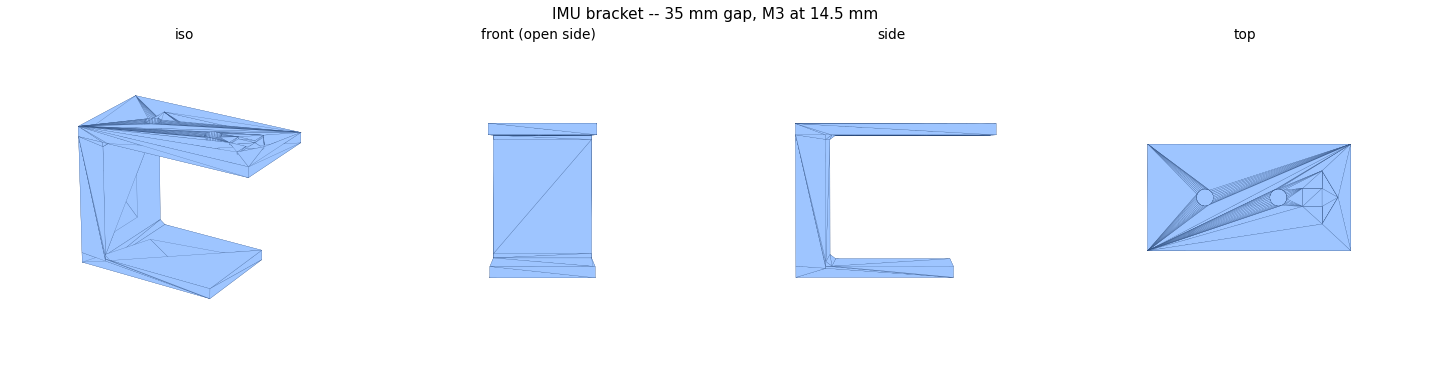
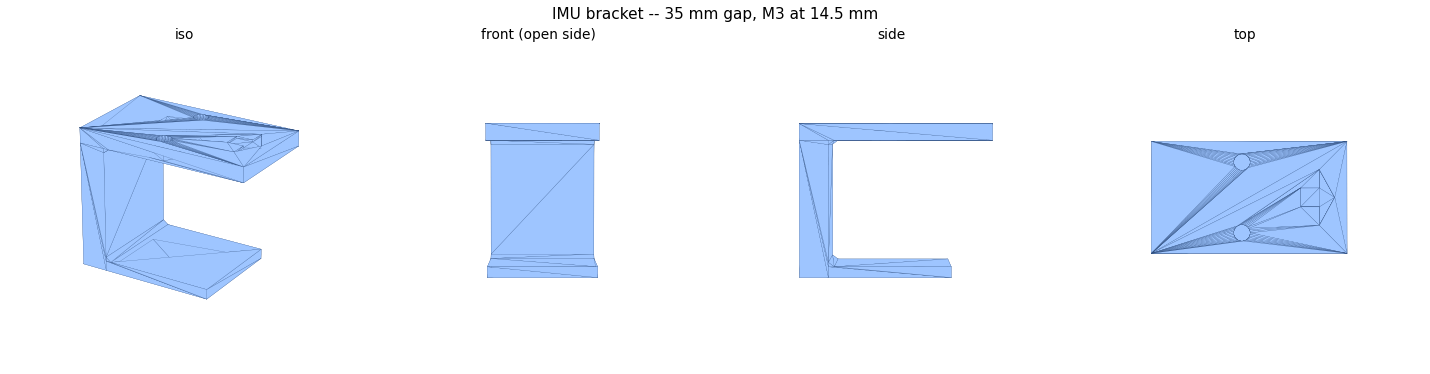
imu bracket: holes across the plate, and a nut trap that fits
Two changes.

The bolt holes rotate 90 degrees, so they now run across the plate
rather than fore and aft, and the board's long axis sits athwart the
robot. The plate widens to suit -- 22.9 mm, taken as the larger of the
board footprint and the bolt span plus clearance, rather than assuming
the board is always the wider of the two.

The nut trap was unbuildable as written. A 2.6 mm hex pocket in a 3 mm
plate leaves 0.4 mm of PLA above the nut, and that 0.4 mm is what the
bolt clamps against -- it would crush on first tightening. The top plate
now grows to 4.6 mm whenever a trap is asked for, keeping 2 mm of
material over the nut, and the summary says it did.

Caught by probing the geometry rather than reading the dimensions back:
the part was watertight and the numbers all looked reasonable, and it
would still have failed the first time a bolt was done up.

diff --git a/imu/design_imu_bracket.py b/imu/design_imu_bracket.py
@@ -93,6 +93,7 @@ MARGIN = 2.5          # plate material beyond the board footprint
 M3_CLEAR = 3.4        # clearance for an M3 bolt
 M3_NUT_AF = 6.2       # M3 nut across flats, plus a little
 M3_NUT_H = 2.6        # M3 nut thickness, plus a little
+MIN_OVER_NUT = 2.0    # material that must remain above a trapped nut
 FILLET = 1.2          # web-to-plate fillet leg, mm
 ARROW_DEPTH = 0.6     # engraving depth
 ARROW_LEN = 7.0
@@ -123,13 +124,19 @@ def arrow_prism(length, width, depth):
 
 
 def build(board_l, board_w, hole_spacing, c_height, nut_trap):
+    # A nut pocket 2.6 mm deep in a 3 mm plate leaves 0.4 mm of PLA
+    # carrying the entire clamp load, which crushes on first tightening.
+    # So the plate grows to suit when a trap is asked for.
+    top_thk = TOP_THK if not nut_trap else M3_NUT_H + MIN_OVER_NUT
     # web + margin + board + gap + arrow + margin. The web thickness
     # has to be in here: the board starts AFTER the web, not after the
     # margin, and leaving it out ran the arrow off the front edge.
     ARROW_GAP = 2.0
     top_l = (WEB_THK + MARGIN + board_l + ARROW_GAP
              + ARROW_LEN + MARGIN)
-    top_w = board_w + 2 * MARGIN
+    # Wide enough for the board OR the bolt span, whichever needs more.
+    top_w = max(board_w + 2 * MARGIN,
+                hole_spacing + M3_CLEAR + 2 * MARGIN)
     # A tall bracket levers on its glue joint, so the base is kept
     # long: the taller the web, the more the moment tries to peel it.
     base_l = max(top_l * 0.75, c_height * 0.9)
@@ -149,8 +156,8 @@ def build(board_l, board_w, hole_spacing, c_height, nut_trap):
     parts.append(web)
 
     # --- TOP: cantilevered forward over the open side -------------
-    top = creation.box(extents=(top_l, top_w, TOP_THK))
-    top.apply_translation((top_l / 2, 0, web_h + TOP_THK / 2))
+    top = creation.box(extents=(top_l, top_w, top_thk))
+    top.apply_translation((top_l / 2, 0, web_h + top_thk / 2))
     parts.append(top)
 
     # --- fillets at both web joints -------------------------------
@@ -169,29 +176,29 @@ def build(board_l, board_w, hole_spacing, c_height, nut_trap):
     # --- bolt holes through the top plate -------------------------
     board_cx = WEB_THK + MARGIN + board_l / 2
     cuts = []
-    for dx in (-hole_spacing / 2, hole_spacing / 2):
-        h = creation.cylinder(radius=M3_CLEAR / 2, height=TOP_THK * 3)
-        h.apply_translation((board_cx + dx, 0.0, web_h + TOP_THK / 2))
+    for dy in (-hole_spacing / 2, hole_spacing / 2):
+        h = creation.cylinder(radius=M3_CLEAR / 2, height=top_thk * 3)
+        h.apply_translation((board_cx, dy, web_h + top_thk / 2))
         cuts.append(h)
         if nut_trap:
             # Hex pocket in the UNDERSIDE, so the nut is captive and you
             # only need one spanner. Open side still lets you drop it in.
             nut = creation.cylinder(radius=M3_NUT_AF / math.sqrt(3),
                                     height=M3_NUT_H, sections=6)
-            nut.apply_translation((board_cx + dx, 0.0, web_h + M3_NUT_H / 2))
+            nut.apply_translation((board_cx, dy, web_h + M3_NUT_H / 2))
             cuts.append(nut)
 
     # --- the arrow, forward of the board footprint ----------------
     arrow = arrow_prism(ARROW_LEN, top_w * 0.5, ARROW_DEPTH * 3)
     arrow.apply_translation(
         (WEB_THK + MARGIN + board_l + ARROW_GAP, 0,
-         web_h + TOP_THK - ARROW_DEPTH))
+         web_h + top_thk - ARROW_DEPTH))
     cuts.append(arrow)
 
     solid = trimesh.boolean.difference([solid] + cuts)
     return solid, dict(top_l=top_l, top_w=top_w, base_l=base_l,
                        base_w=base_w, web_h=web_h, board_cx=board_cx,
-                       overall_h=web_h + TOP_THK)
+                       overall_h=web_h + top_thk, top_thk=top_thk)
 
 
 def preview(solid, path, title):
@@ -258,7 +265,9 @@ def main():
           + (", with nut trap" if args.nut_trap else ""))
     print(f"  wiring gap       {args.height:g} mm")
     print()
-    print(f"  top plate        {d['top_l']:.1f} x {d['top_w']:.1f} x {TOP_THK:g} mm")
+    print(f"  top plate        {d['top_l']:.1f} x {d['top_w']:.1f} x "
+          f"{d['top_thk']:g} mm"
+          + (f"  (thickened for the nut trap)" if args.nut_trap else ""))
     print(f"  base plate       {d['base_l']:.1f} x {d['base_w']:.1f} x {BASE_THK:g} mm")
     print(f"  web              {WEB_THK:g} mm thick, {d['web_h']:.1f} mm tall")
     print(f"  overall height   {d['overall_h']:.1f} mm")

diff --git a/doc/imu.md b/doc/imu.md
@@ -246,7 +246,13 @@ python imu/design_imu_bracket.py --summary        # dimensions, no STL
 ```
 
 As built: 35 mm gap, M3 holes 14.5 mm apart (from 17.5 mm measured
-outside-to-outside on a 20 x 16 mm board), 41 mm overall.
+outside-to-outside on a 20 x 16 mm board), running ACROSS the plate so
+the board's long axis sits athwart the robot. 41 mm overall.
+
+`--nut-trap` adds a hex pocket under the top plate and thickens that
+plate to 4.6 mm to suit. It has to: a 2.6 mm pocket in a 3 mm plate
+leaves 0.4 mm of PLA carrying the entire clamp load, which crushes on
+first tightening.
 
 **The engraved arrow is the important part.** Two bolt holes cannot key
 rotation -- the board fits perfectly mounted 180 degrees out, +X aft
